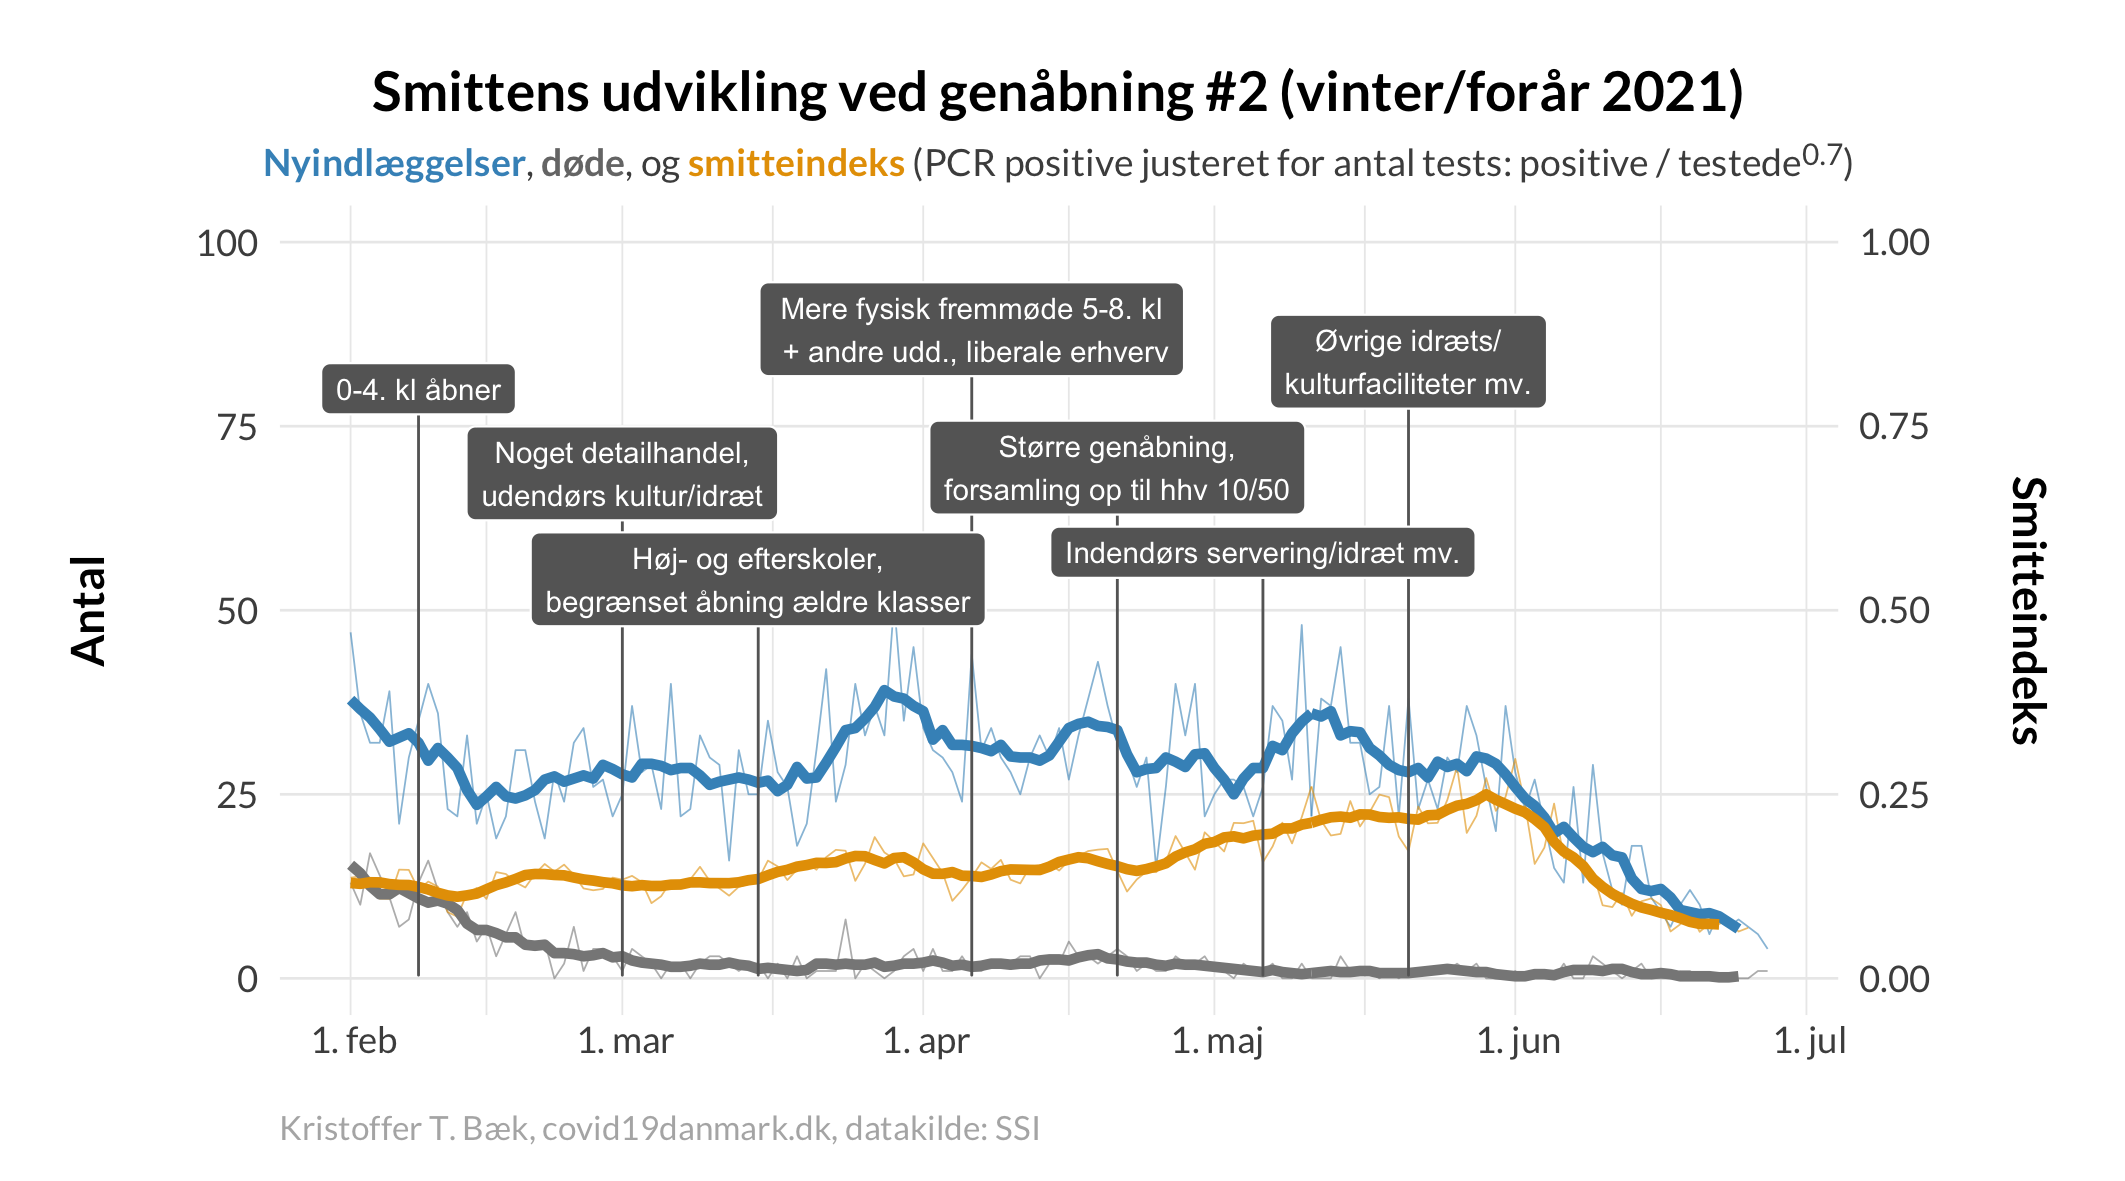
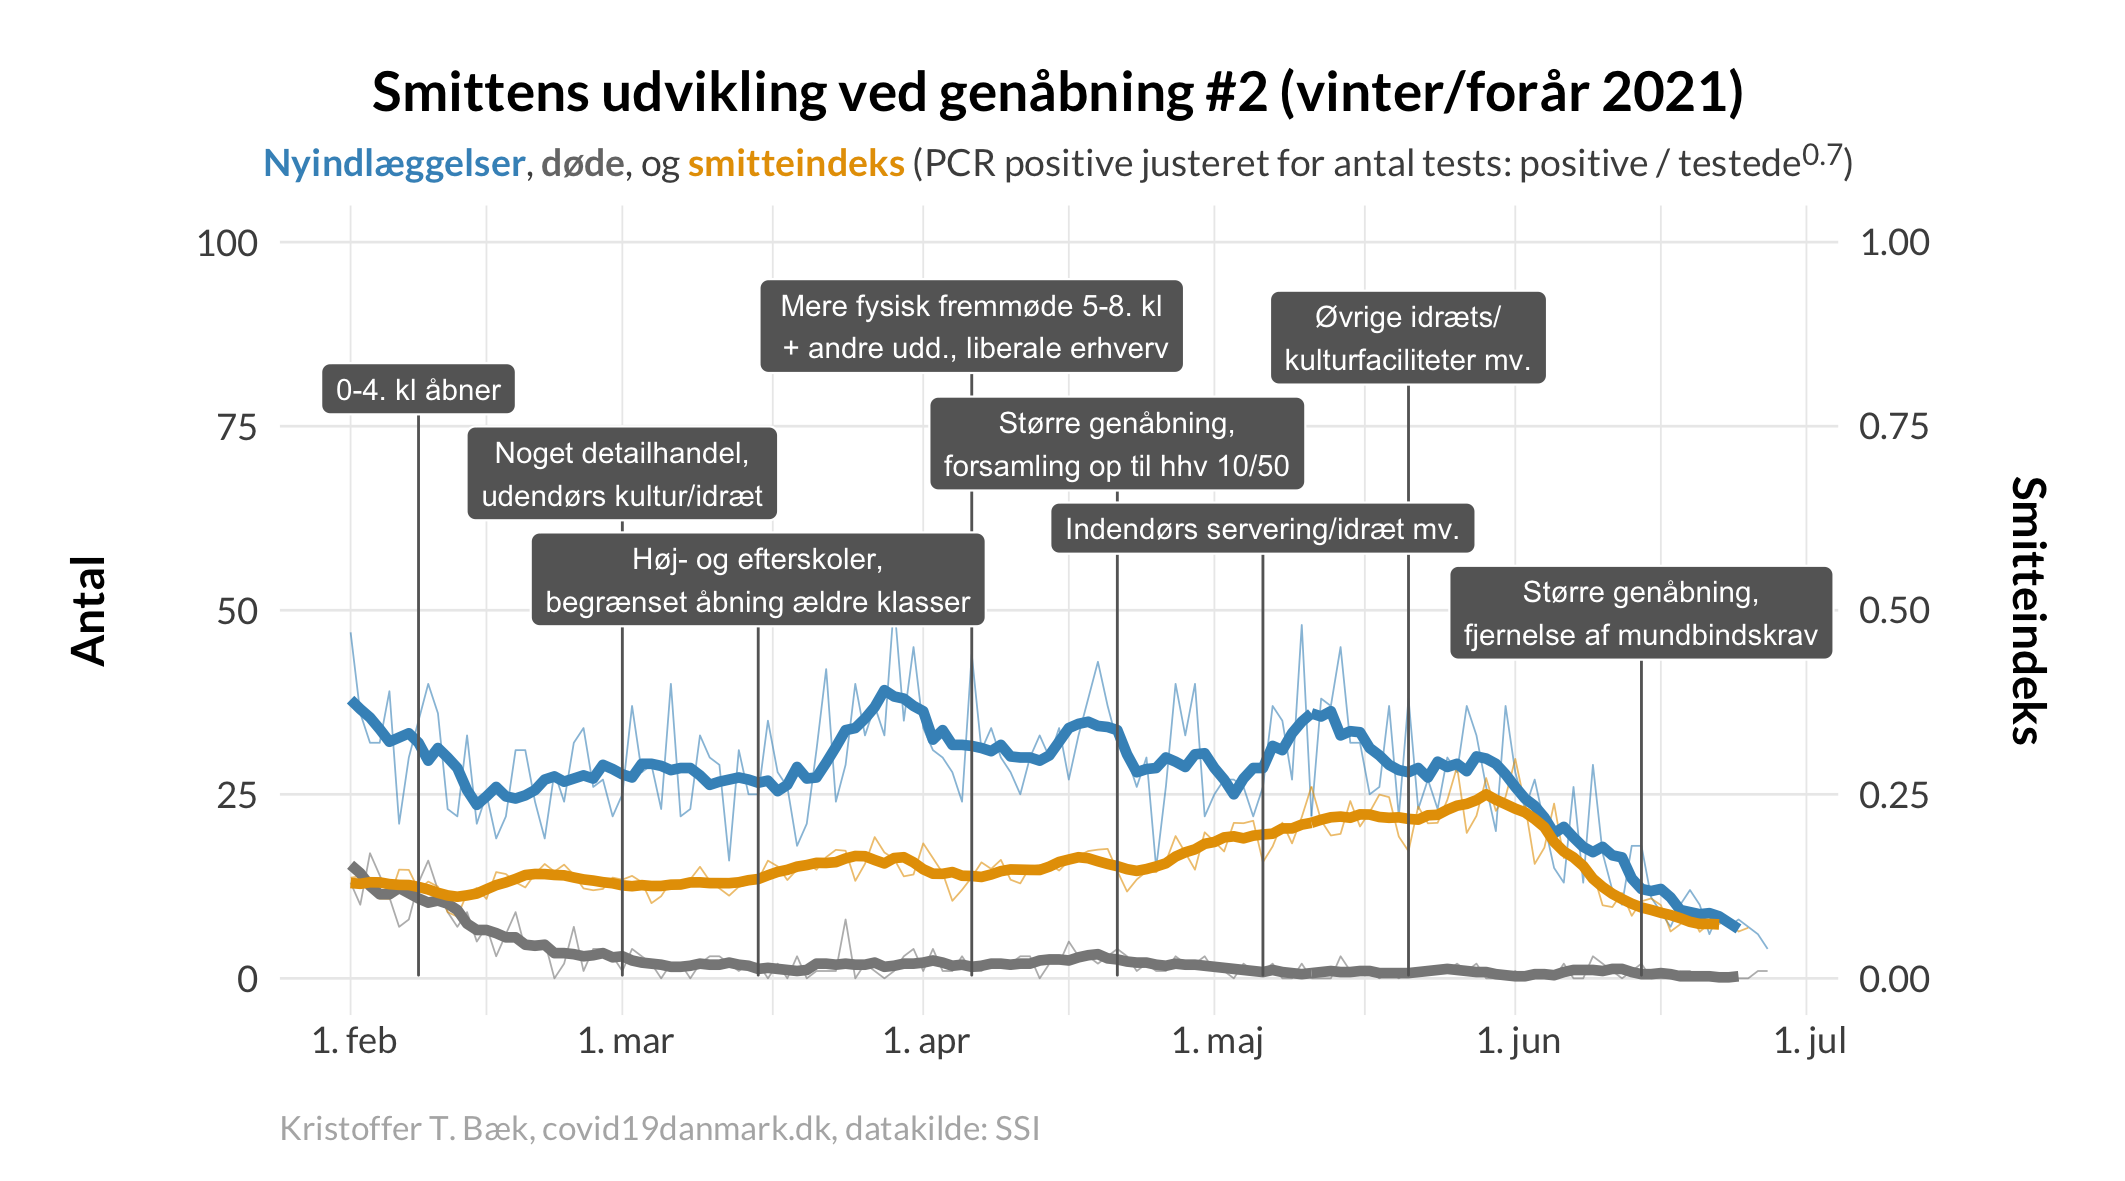
Update plots

Changed region(s): [[0.3727, 0.2134, 0.8696, 0.5792]]

diff --git a/tiltag.md b/tiltag.md
@@ -44,6 +44,7 @@
 | 21. april | Indkøbscentre, stormagasiner mv. samt udeservering og organiseret idræt for børn. Udendørsservering på restauranter og cafeer mv., museer, kunsthaller samt biblioteker mod forevisning af coronapas. |
 | 6. maj | Indendørsservering på restauranter og cafeer mv., konferencer, spillesteder, teatre og biografer mod forevisning af coronapas. Indendørs idræt i organiseret regi for voksne over 18 år mod forevisning af coronapas. |
 | 21. maj | Der åbnes for alle resterende idræts- fritids- og foreningsaktiviteter mod forevisning af coronapas. Indendørsfaciliteter i forlystelsesparker, zoo, legelande mv. genåbnes mod forevisning af coronapas. Daghøjskoler og aftenskoler genåbnes under smitteforebyggende tiltag.  |
+| 14. juni | Krav om mundbind/visir ophæves undtagen i den kollektive transport, når man ikke sidder ned.  Åbningstiden på serveringssteder udvides til kl.24. Samtidig åbnes der generelt (dvs. også i detailhandlen) for salg af alkohol indtil kl. 24. Krav om coronapas ophæves for biblioteker, mv. |
 
 
 
